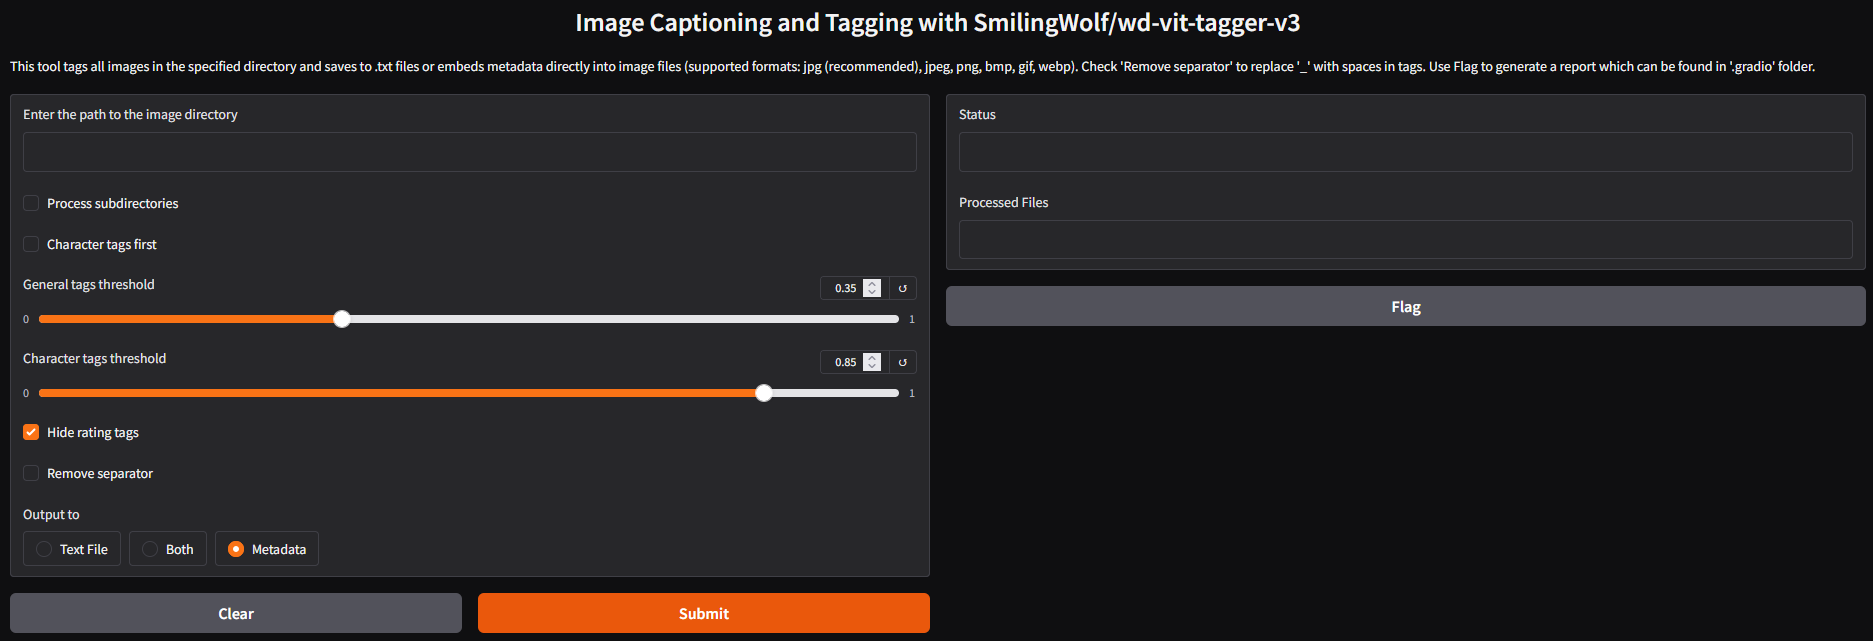
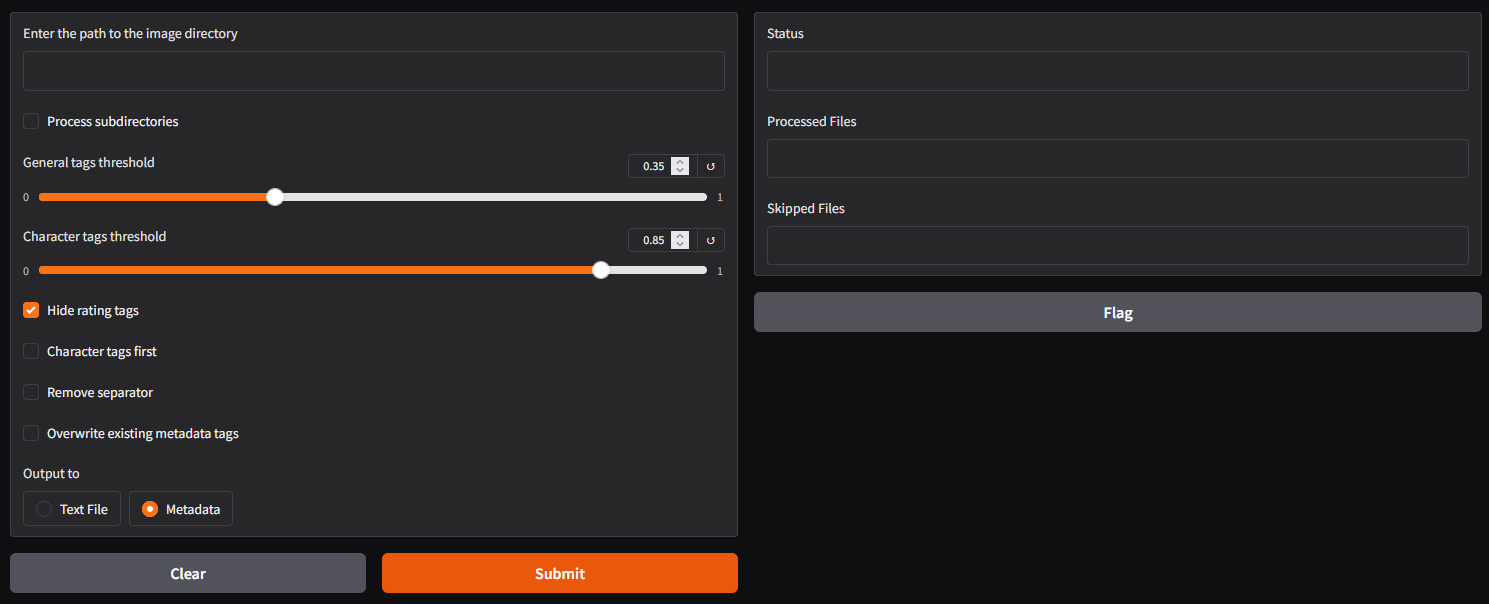
Update

Changed region(s): [[0.0, 0.0, 1.0, 0.745], [0.0, 0.7748, 0.4943, 1.0]]

diff --git a/README.md b/README.md
@@ -7,13 +7,15 @@ The successor of WD14 tagger and alternative to DeepDanbooru - now with metadata
 
 ## Features
 - **Supported models**: Latest WaifuDiffusion v3 tagger architecture featuring SmilingWolf/wd-vit-tagger-v3 model
-- **Output**: Currently there are 3 output modes: .txt files, directly to image metadata, and both.
-- **Supported Files**: jpg (recommended), jpeg, png, bmp, gif, webp
-- **Easy User Interface**: By utilizing gradio for GUI, the usage of this script should be easy
-- **Hide Rating Tags**: You can optionally choose whether to output the rating tags (Like "General", "Explicit", "Quetionable", etc) or not by checklist the "Hide Rating Tags" box
-- **Character Tags First**: This feature makes the character name tag appear in front before other tags like general, copyright or rating. This feature is useful when training the text encoder with "keep n tokens"
-- **Hide the Separator**: This function will remove the separator "_" of the tags in the output caption
-- **User Preffered Threshold**: Using the gradio slider, the user can adjust the threshold of the tagger model
+- **Supported files**: JPG/JPEG (recommended), PNG, WEBP, GIF, BMP(no metadata)
+- **Easy user interface**: By utilizing gradio for GUI, the usage of this script should be smooth
+- **Process subdirectories**: recursively goes through all directories within a given one. In case of writing tags to *.txt* it mirriors the folder structure 
+- **User preffered threshold**: Using the gradio slider, the user can adjust the threshold of the tagger model
+- **Hide rating tags**: You can optionally choose whether to output the rating tags (Like "General", "Explicit", "Quetionable", etc) or not by checklist the "Hide Rating Tags" box
+- **Character tags first**: This feature makes the character name tag appear in front before other tags like general, copyright or rating. This feature is useful when training the text encoder with "keep n tokens"
+- **Remove separator**: This function will remove the standard separator "_" of the tags in the output caption
+- **Overwrite existing metadata tags**: wipes clean any existing tags in metadata before writing new ones (XMP:Subject and IPTC:Keywords) 
+- **Output**: There are 2 output modes: 1. embeding tags directly into image *metadata* 2 *.txt* files
 
 ## How to run  
 Python >3.10 and CUDA GPU is required to run this script. Download from [https://www.python.org/downloads](https://www.python.org/downloads/windows/)  
@@ -25,10 +27,11 @@ Steps to run:
 3. Set up a virtual environment `python -m venv venv` *
 4. Activate the new venv: *
     - Windows: `venv\scripts\activate` 
-5. Install the requirements `pip install -r requirements.txt`
-6. Run the script `python wdv3tagger.py` OR use `start.bat` if on Windows (using venv)
+5. Install the requirements `pip install -r requirements.txt`  
+    - Optionally visit https://pytorch.org/ and install one fitting your system for performance boost (~69% here)   
+6. Run the script `python wdv3tagger.py` OR use `start.bat` on Windows (using venv)
 
 \* Virtual environment is optional, but recommended to keep this isolated, you can skip to step 5 if you want to install and run on global environtment
 
 ## Disclaimer
-This is still under development so please **do backups before running** and report issues.
+This has been thoroughly tested, but it's still under development so do be savvy and backup before running, and report issues if any.
